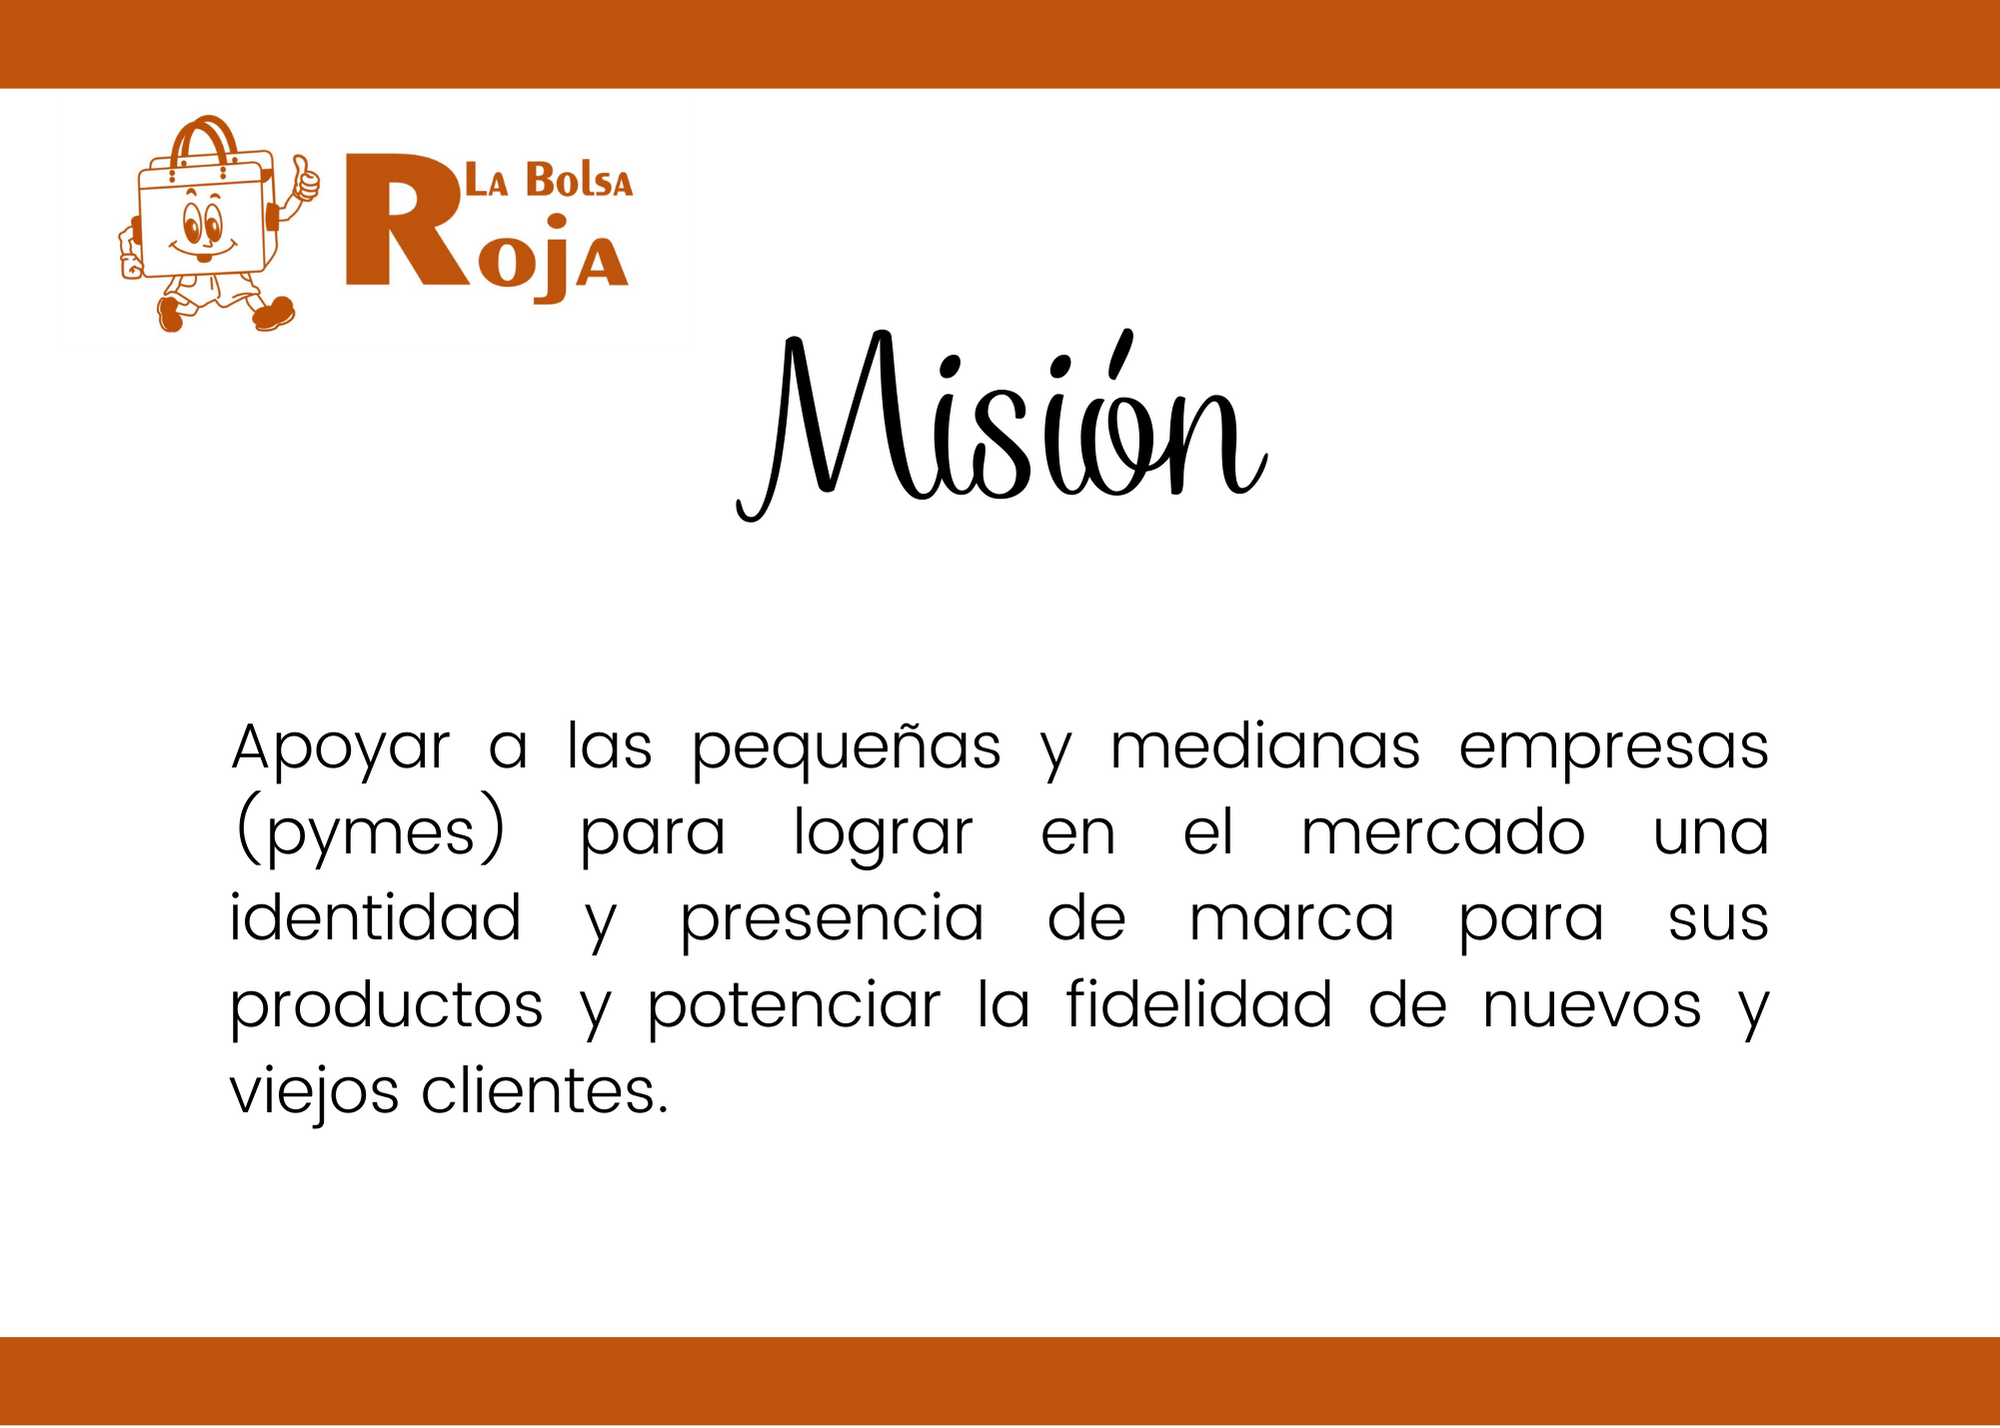
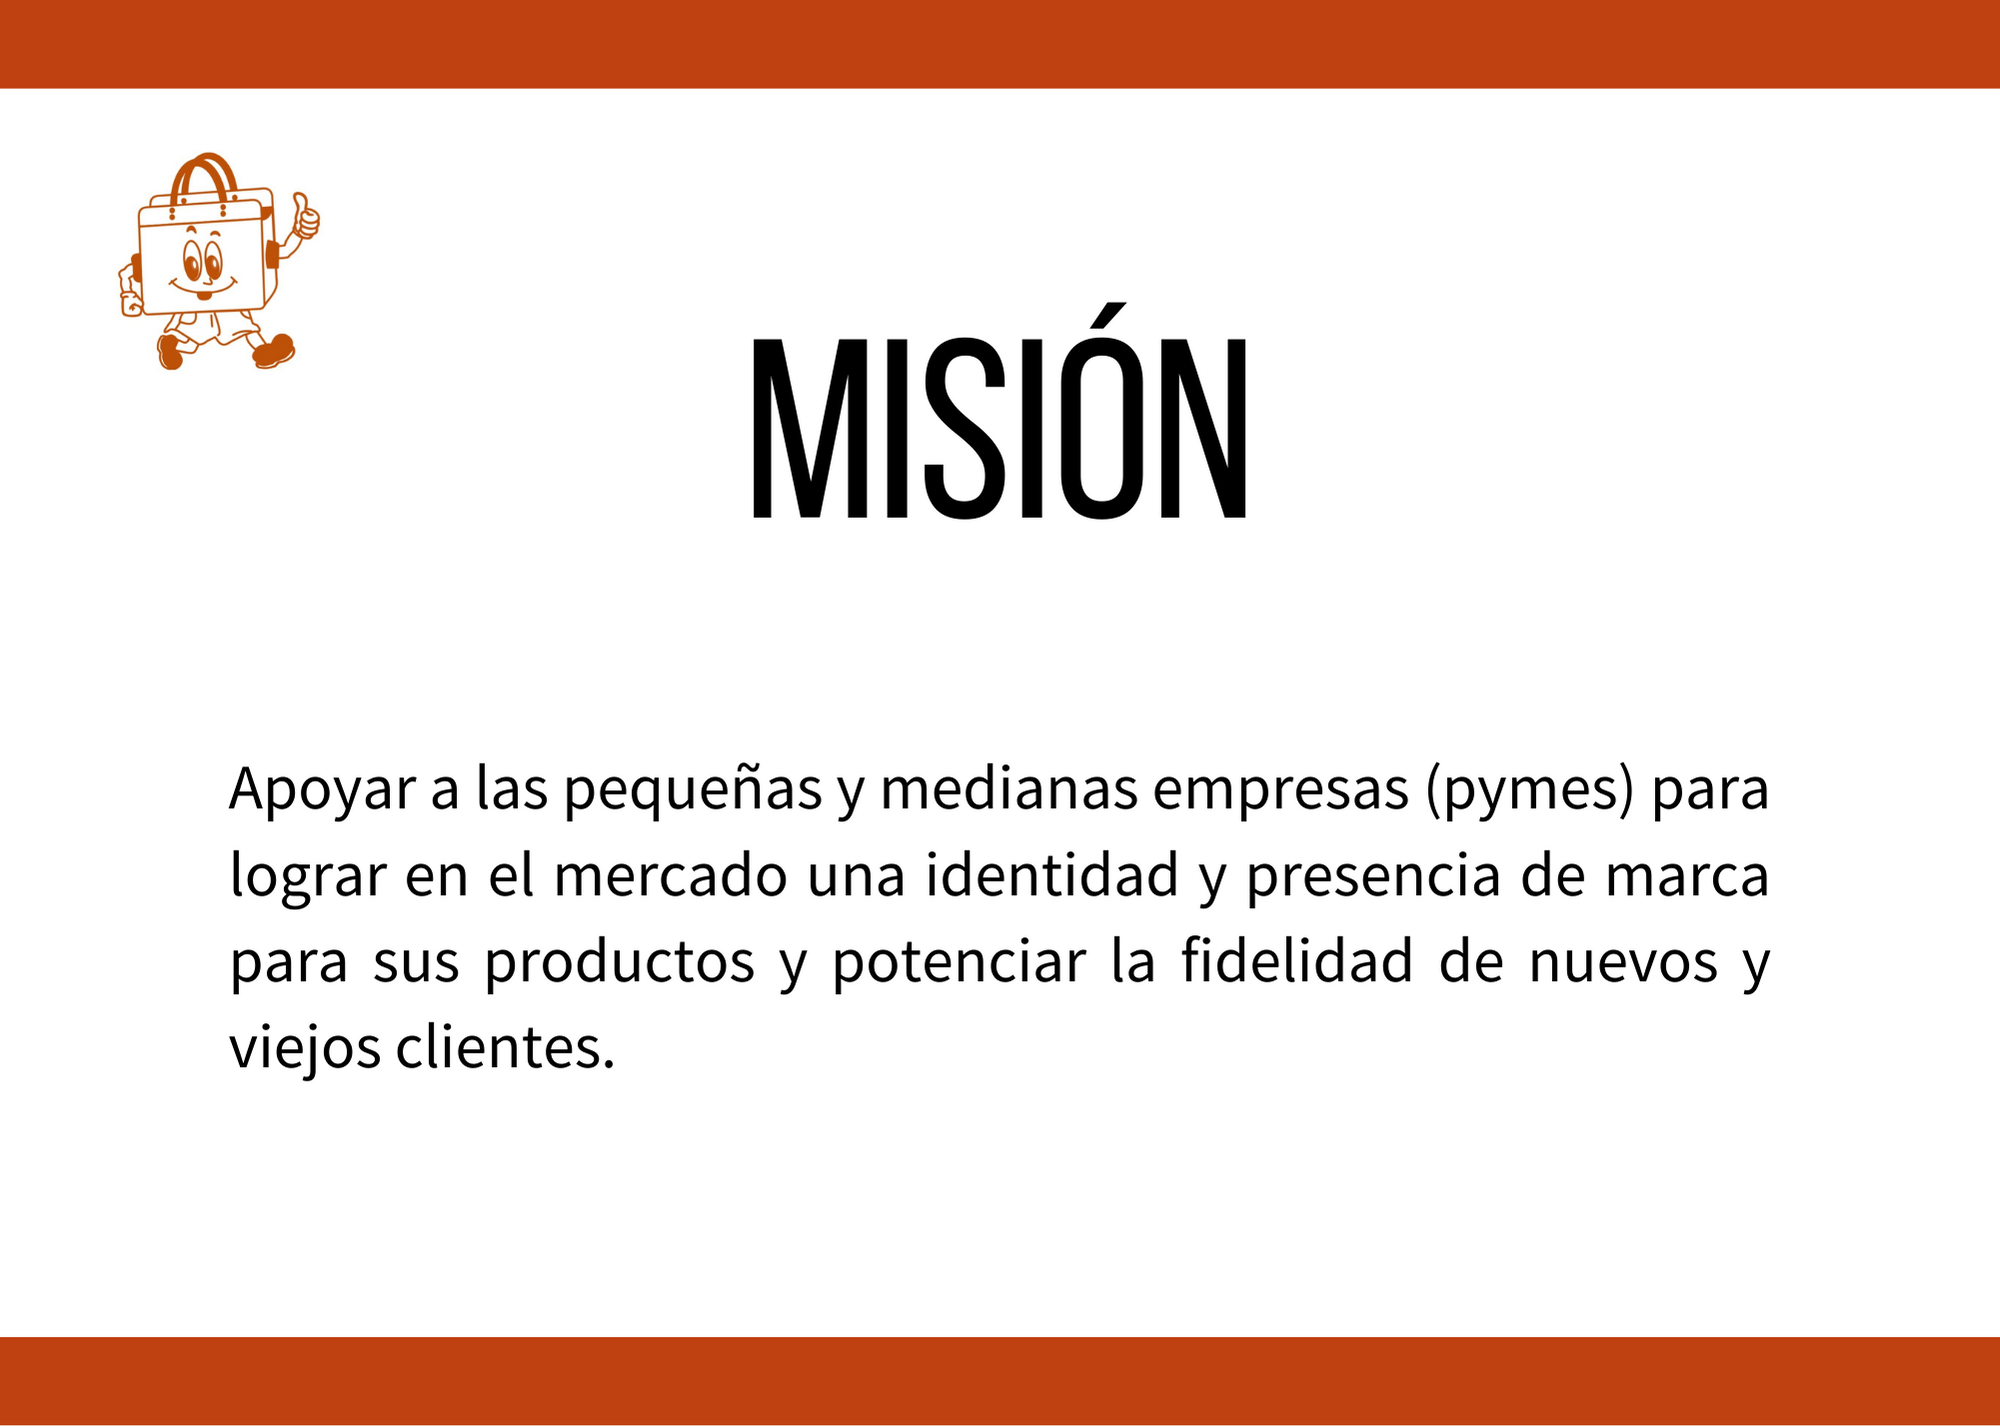
Se modificarón imágenes y se agrego desplazamiento al carousel

Changed region(s): [[0.093, 0.493, 0.899, 0.8011], [0.372, 0.2157, 0.651, 0.3697], [0.062, 0.0616, 0.31, 0.2773]]

diff --git a/acercadenosotros.html b/acercadenosotros.html
@@ -58,18 +58,26 @@
         cosmetiqueras, costales morrales, etc. Además de productos de empaque como cajas, bolsas de
         celofán y bolsas de polietileno tratado.</p>
     </div>
-    <div id="carousel-item" class="carousel slide" data-bs-ride="carousel">
+    <div id="carouselExampleControls" class="carousel slide" data-bs-ride="carousel">
       <div class="carousel-inner">
         <div class="carousel-item active">
-          <img src="./src/MISION BOLSA.png" class="d-block w-50 mx-auto" alt="...">
+          <img src="./src/MISION BOLSA.png" class="d-block w-50 mx-auto" alt="mision1">
         </div>
         <div class="carousel-item">
-          <img src="./src/VISION BOLSA (1).png" class="d-block w-50 mx-auto" alt="...">
+          <img src="./src/VISION BOLSA .png" class="d-block w-50 mx-auto" alt="vision1">
         </div>
         <div class="carousel-item">
-          <img src="./src/VALORES BOLSA (1).png" class="d-block w-50 mx-auto" alt="...">
+          <img src="./src/VALORES BOLSA .png" class="d-block w-50 mx-auto" alt="valores1">
         </div>
       </div>
+      <button class="carousel-control-prev" type="button" data-bs-target="#carouselExampleControls" data-bs-slide="prev">
+        <span class="carousel-control-prev-icon" aria-hidden="true"></span>
+        <span class="visually-hidden">Previous</span>
+      </button>
+      <button class="carousel-control-next" type="button" data-bs-target="#carouselExampleControls" data-bs-slide="next">
+        <span class="carousel-control-next-icon" aria-hidden="true"></span>
+        <span class="visually-hidden">Next</span>
+      </button>
     </div>
     <br>
     <br>
